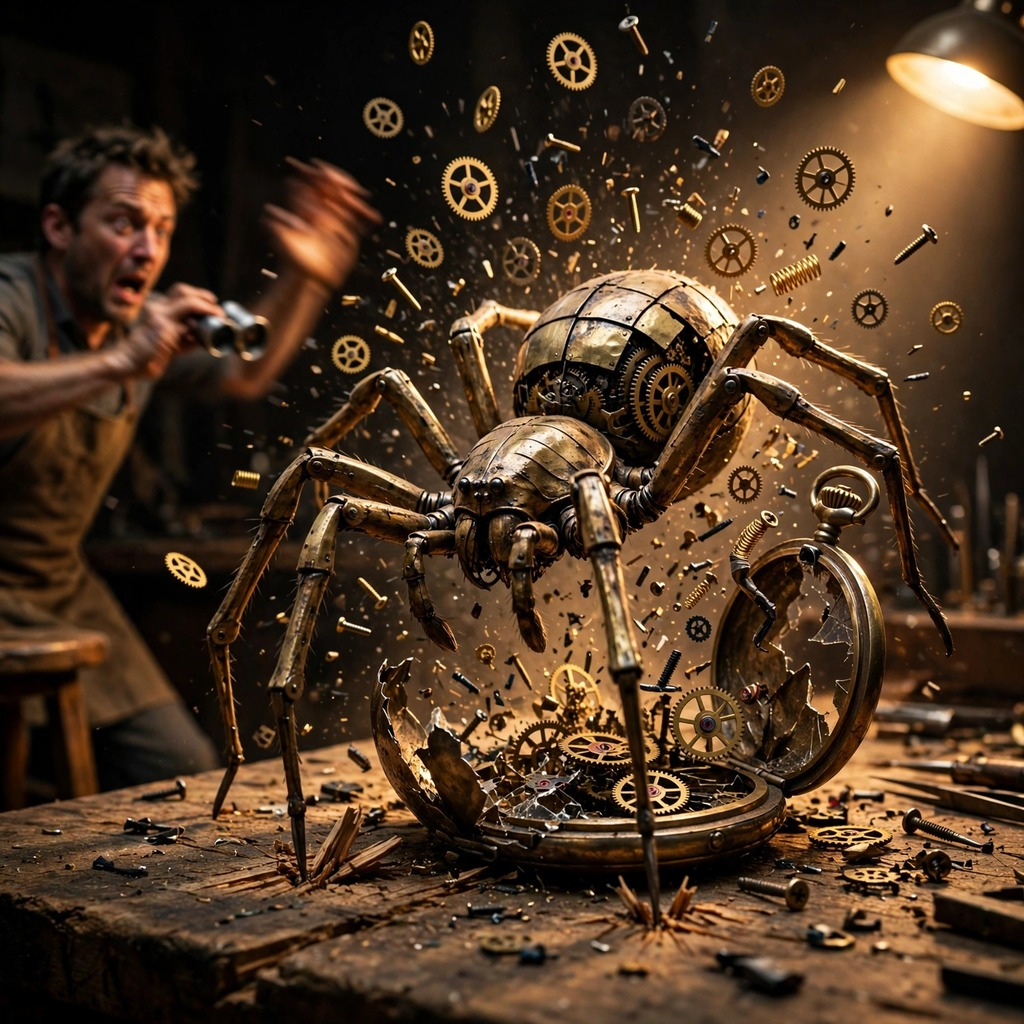
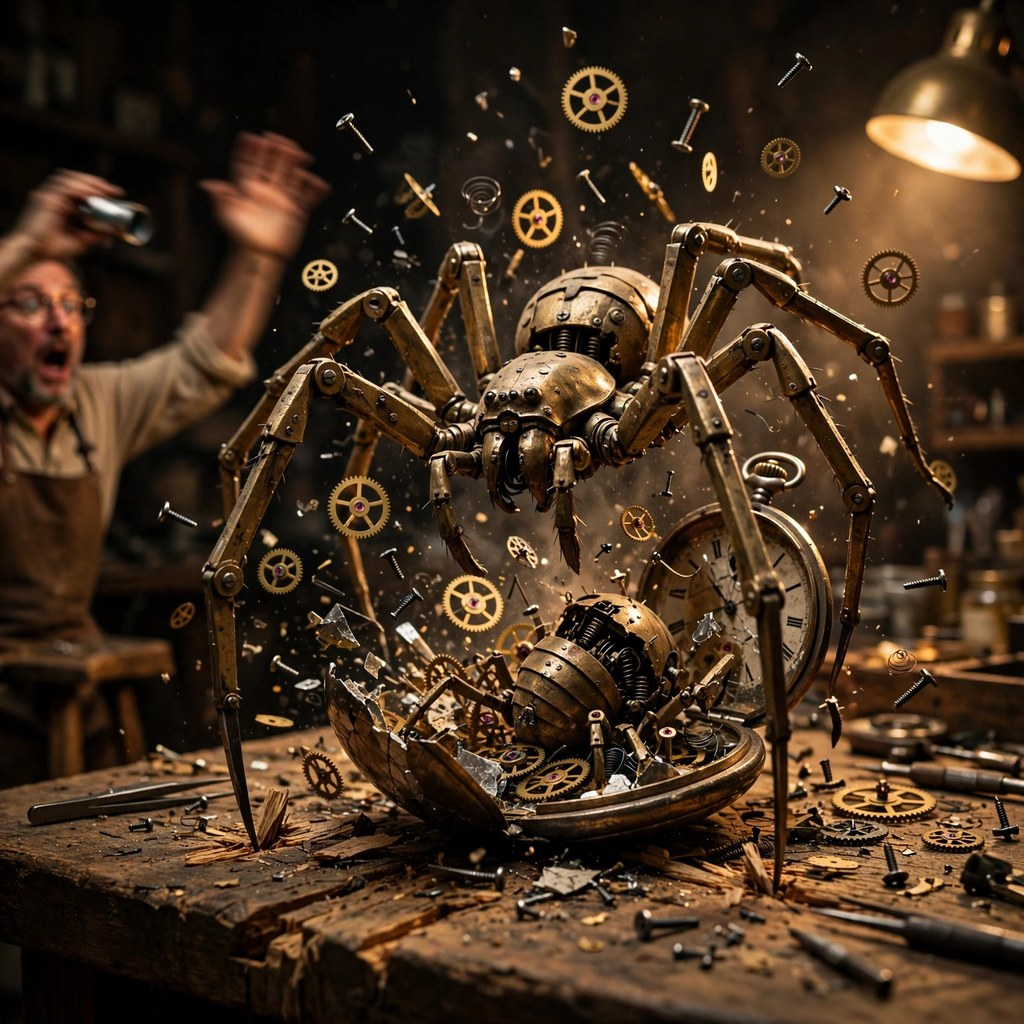
Round 2: regenerate entry image and rewrite all files in recorded session

diff --git a/main.ts b/main.ts
@@ -1,22 +1,21 @@
-// ai-excited-01 entrypoint.
+// ai-excited-01 entrypoint — "The Clockwork Spider".
 //
-// The entry is a single static image: a photorealistic brass clockwork
-// spider erupting out of a burst pocket watch on a watchmaker's bench.
-// There is nothing to render at run time — this program just places the
-// finished image where the harness expects it, byte for byte.
-//
-// Standard library only; no network, no dependencies.
+// The entry is one finished static image: a photorealistic brass
+// clockwork spider bursting out of an open pocket watch on a
+// watchmaker's bench. Nothing is rendered at run time; this program
+// simply puts the finished image where the harness expects it,
+// byte for byte, using only the Node standard library.
 
 import { copyFileSync, existsSync, mkdirSync, statSync } from "node:fs";
 import { dirname, join } from "node:path";
 import { fileURLToPath } from "node:url";
 
-// The image sits next to this file in the repo.
+// entry.png sits next to this file in the repository.
 const HERE = dirname(fileURLToPath(import.meta.url));
 const SOURCE = join(HERE, "entry.png");
 
-// The harness sets MAKEFUN_OUTPUT_DIR when it runs us; fall back to the
-// conventional /output path so a plain `node main.ts` works too.
+// The harness sets MAKEFUN_OUTPUT_DIR when it runs us; default to the
+// conventional /output path so a plain `node main.ts` also works.
 const OUT_DIR = process.env.MAKEFUN_OUTPUT_DIR ?? "/output";
 const TARGET = join(OUT_DIR, "entry.png");
 
@@ -28,7 +27,7 @@ mkdirSync(OUT_DIR, { recursive: true });
 copyFileSync(SOURCE, TARGET);
 
 // The harness runs the program twice and expects identical bytes both
-// times, so confirm the copy actually landed whole before we report it.
+// times, so confirm the copy actually landed whole before reporting it.
 const sourceBytes = statSync(SOURCE).size;
 const targetBytes = statSync(TARGET).size;
 if (sourceBytes !== targetBytes) {

diff --git a/README.md b/README.md
@@ -8,13 +8,15 @@ Entry for the [make.fun ai-excited-01](https://make.fun/bounty/ai-excited-01) im
 
 ## The image
 
-A giant brass clockwork spider — hammered brass body, eight jointed legs,
-about the size of a large dog — erupting out of an open antique pocket watch
-on a scarred wooden watchmaker's bench. The watch has burst: gears, cogs,
-mainsprings and tiny screws frozen mid-air in a tight radial spray. At the
-left edge of the frame the watchmaker recoils off his stool, loupe still in
-hand, lit from below by a warm tungsten lamp. Low camera angle, dark
-background, one dominant subject — the shape still reads at thumbnail size.
+A giant brass clockwork spider — hammered brass body, segmented abdomen,
+eight jointed legs, about the size of a large dog — erupting out of an open
+antique pocket watch on a scarred wooden watchmaker's bench. The watch has
+burst: a tight radial spray of brass gears, cogs, mainsprings and tiny
+screws frozen mid-air around the spider. At the left edge of the frame the
+watchmaker recoils backwards off his stool, arms thrown up, loupe still in
+one hand, face lit from below by a warm tungsten lamp. Low camera angle at
+bench level, dark background, one dominant subject — the shape still reads
+at thumbnail size.
 
 The idea: the smallest thing in the room (a pocket watch) giving birth to
 the biggest thing in the frame. Scale inversion, one warm light source,
